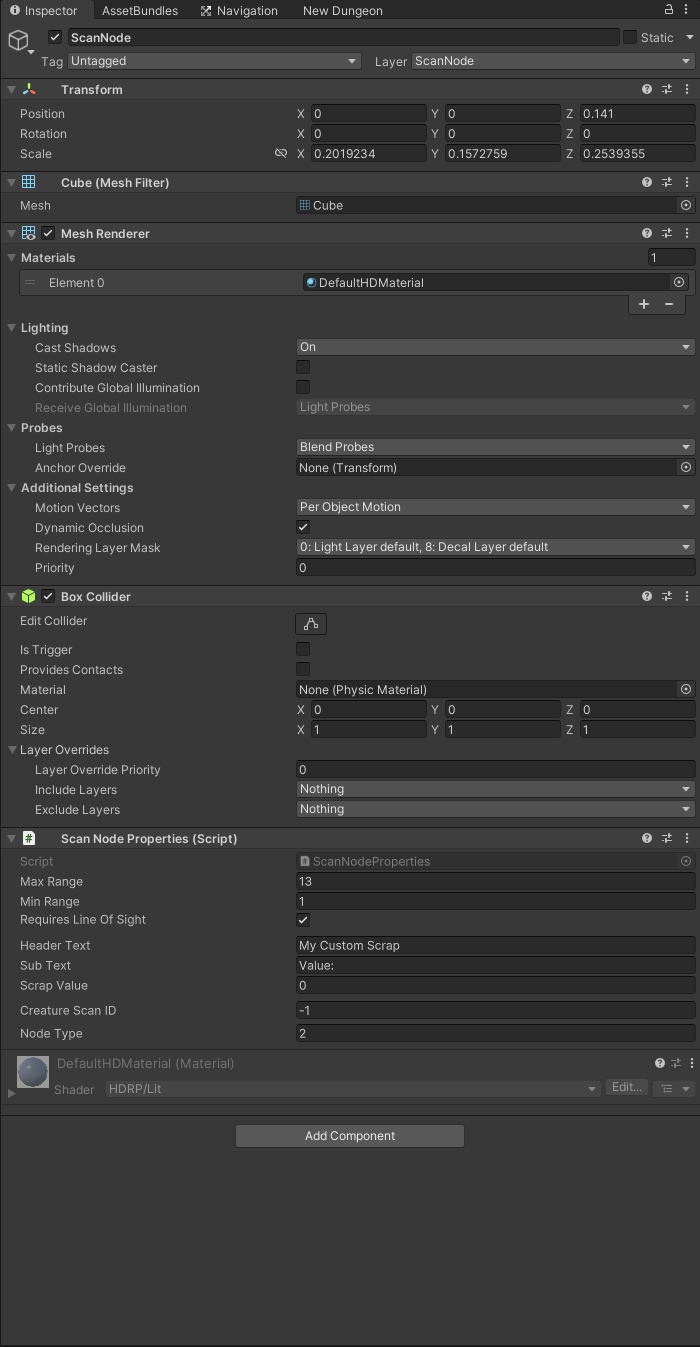
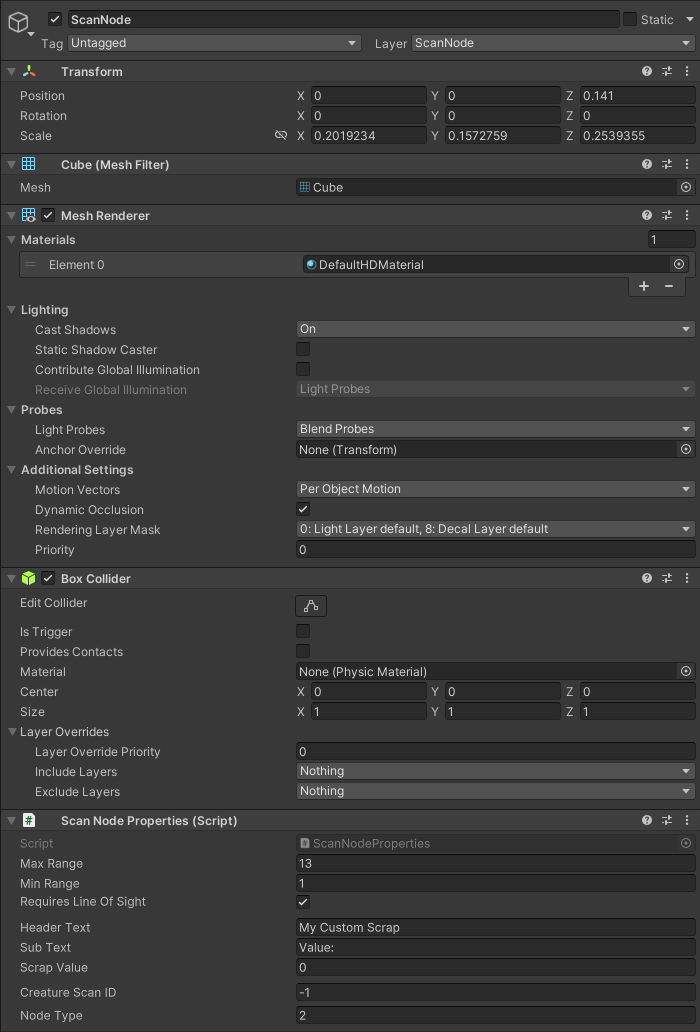
Custom scrap changes
Add notes for "Diagetic" audio fixing
+ Adjust scan node image to reduce wasted space

diff --git a/docs/dev/apis/lethallib/customscrap.md b/docs/dev/apis/lethallib/customscrap.md
@@ -59,8 +59,7 @@ The Network Object must only have the following options enabled, with everything
 - Spawn With Observers
 - Don't Destroy With Owner
 
-The Audio source should use the "Diagetic" (Yes it's misspelled in the game files) audio mixing. If you're using a decompilation you can use the one already present, otherwise you should create an Audio Mixer use the following screenshots as a guide for how to set up the master controller:
-![Image of the audio mixer for diegetic audio.](/images/lethallib/customscrap/AudioMixMaster.png)
+The Audio source should use the "Diagetic" (Yes it's misspelled in the game files) audio mixing. If you're using a decompilation you can use the one already present, otherwise you can make an empty audio mixer with an *identical* name, and use the utility function FixMixerGroups() to swap the mixer using LethalLib (see Loading and Registering code note below)
 
 ### ScanNode Object
 On the ScanNode child gameobject, you should have the following:
@@ -90,6 +89,16 @@ Item MyCustomItem = MyAssetBundle.LoadAsset<Item>("directory/to/itemdataasset.as
 LethalLib.Modules.NetworkPrefabs.RegisterNetworkPrefab(MyCustomItem.spawnPrefab);
 LethalLib.Modules.Items.RegisterScrap(MyCustomItem, iRarity, LethalLib.Modules.Levels.LevelTypes.All);
 ```
+::: info
+If you're using an empty audio mixer with the name "Diagetic" for the Audio Source, add the following line to fix the mixer:
+```cs
+Item MyCustomItem = MyAssetBundle.LoadAsset<Item>("directory/to/itemdataasset.asset");
+LethalLib.Modules.Utilities.FixMixerGroups(MyCustomItem.spawnPrefab); // [!code ++]
+LethalLib.Modules.NetworkPrefabs.RegisterNetworkPrefab(MyCustomItem.spawnPrefab);
+```
+This may also fix issues with sounds playing twice, if that issue is occuring for you.
+:::
+
 Rarity is a weight value that determines how likely the scrap is to spawn, with higher numbers meaning more likely to spawn. All scrap in the base game varies from 1 to 100 differing per-moon, and the value should be kept in that range.
 
 LevelTypes is a flag enum which provides some basic pre-defined options for moons, such as All, Vanilla, or any of the default moons individually. The enum supports bitwise operations, for example `(LethalLib.Modules.Levels.LevelTypes.March | LethalLib.Modules.Levels.LevelTypes.Dine)` will register the scrap for both March and Dine.
